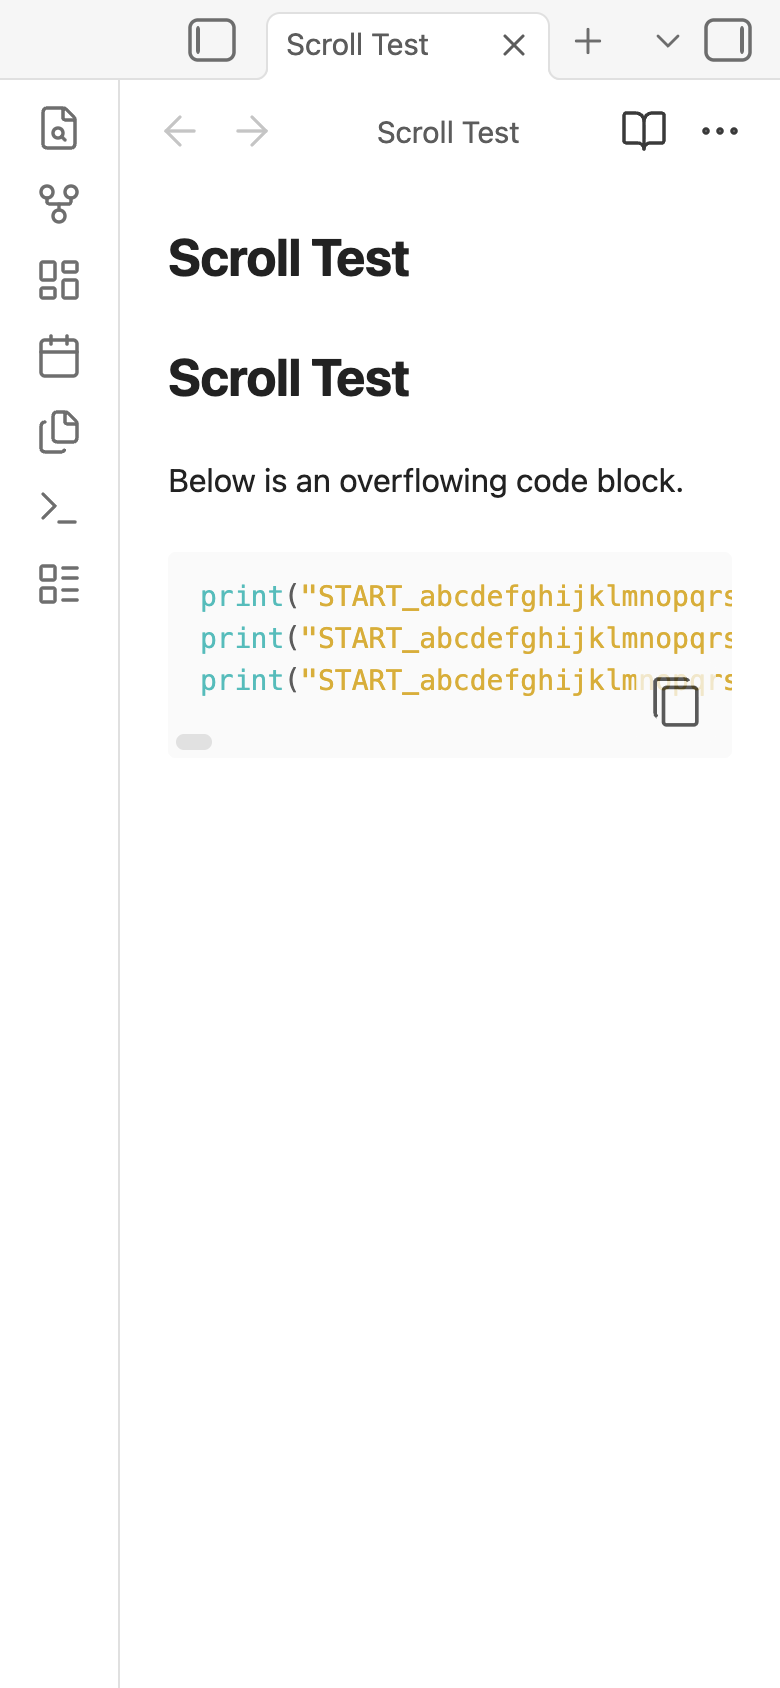
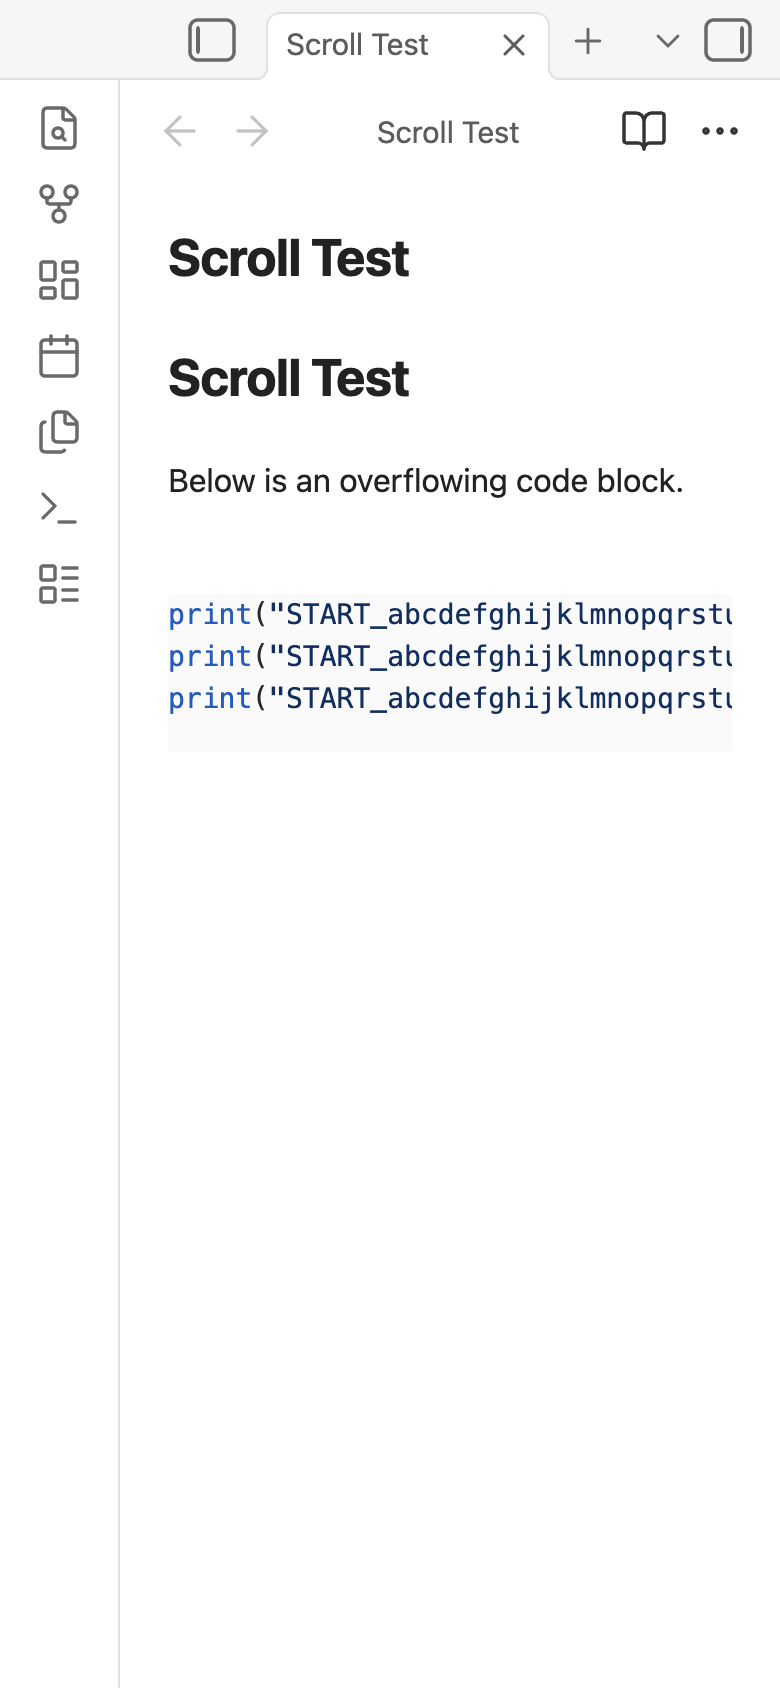
Fix mobile Monaco editing interactions

Changed region(s): [[0.2154, 0.3389, 0.9538, 0.4621]]

diff --git a/packages/obsidian/src/monaco/MonacoCodeBlockSurface.ts b/packages/obsidian/src/monaco/MonacoCodeBlockSurface.ts
@@ -31,17 +31,12 @@ export class MonacoCodeBlockSurface {
 	private resizeObserver: ResizeObserver | undefined;
 	private gestureRouter: MonacoGestureRouter | undefined;
 	private nativeMobileInteraction: NativeMobileInteraction | undefined;
-	private mobileModeObserver: MutationObserver | undefined;
-	private mobileModePollTimer: number | undefined;
 	private activationHandler: ((point: { clientX: number; clientY: number }) => void) | undefined;
 	private attachedParent: HTMLElement | undefined;
 	private hydrated = false;
 	private disposed = false;
 
 	constructor(plugin: ShikiPlugin, block: CodeBlockModel) {
-		this.mobileModeObserver = new MutationObserver(this.handleDocumentModeChange);
-		this.mobileModeObserver.observe(document.body, { attributes: true, attributeFilter: ['class'] });
-		window.addEventListener('resize', this.handleDocumentModeChange);
 		this.plugin = plugin;
 		this.block = block;
 		this.hostEl = document.createElement('div');
@@ -123,11 +118,6 @@ export class MonacoCodeBlockSurface {
 		this.modeController.setMode('editable');
 		this.editor?.updateOptions({ readOnly: false, domReadOnly: false, contextmenu: true, renderLineHighlight: 'line' });
 		this.updateModeClass();
-		this.startMobileModePoll(true);
-		if (this.isDocumentMobileMode() && !cursorPoint) {
-			this.deactivateToReadonly();
-			return;
-		}
 		if (cursorPoint) {
 			await this.waitForEditorFrame();
 			this.placeCursorFromPoint(cursorPoint.clientX, cursorPoint.clientY);
@@ -141,7 +131,6 @@ export class MonacoCodeBlockSurface {
 	}
 
 	deactivateToReadonly(): void {
-		this.stopMobileModePoll();
 		this.inputController.setSync(undefined);
 		this.modeController.setMode('readonly');
 		this.editor?.updateOptions({ readOnly: true, domReadOnly: true, contextmenu: false, renderLineHighlight: 'none' });
@@ -171,10 +160,6 @@ export class MonacoCodeBlockSurface {
 	}
 
 	dispose(): void {
-		this.mobileModeObserver?.disconnect();
-		this.mobileModeObserver = undefined;
-		window.removeEventListener('resize', this.handleDocumentModeChange);
-		this.stopMobileModePoll();
 		this.disposed = true;
 		this.resizeObserver?.disconnect();
 		this.resizeObserver = undefined;
@@ -232,53 +217,8 @@ export class MonacoCodeBlockSurface {
 		this.layout();
 	}
 
-	private startMobileModePoll(enabled: boolean): void {
-		this.stopMobileModePoll();
-		if (!enabled) {
-			return;
-		}
-		this.mobileModePollTimer = window.setInterval(() => {
-			if (this.disposed || !this.modeController.isEditable()) {
-				this.stopMobileModePoll();
-				return;
-			}
-			if (this.isDocumentMobileMode()) {
-				this.deactivateToReadonly();
-			}
-		}, 100);
-	}
-
-	private stopMobileModePoll(): void {
-		if (this.mobileModePollTimer === undefined) {
-			return;
-		}
-		window.clearInterval(this.mobileModePollTimer);
-		this.mobileModePollTimer = undefined;
-	}
-
-	private readonly handleDocumentModeChange = (): void => {
-		if (!this.isDocumentMobileMode()) {
-			return;
-		}
-		this.deactivateToReadonly();
-	};
-
-	private isDocumentMobileMode(): boolean {
-		return (
-			document.body.classList.contains('emulate-mobile') ||
-			document.body.classList.contains('is-mobile') ||
-			document.body.classList.contains('is-phone') ||
-			document.body.classList.contains('is-tablet')
-		);
-	}
-
 	private placeCursorFromPoint(clientX: number, clientY: number): void {
 		this.selectionController.placeCursor(clientX, clientY, true);
-		const approximate = this.approximatePositionFromPoint(clientX, clientY);
-		if (approximate) {
-			this.editor?.setPosition(approximate);
-			this.editor?.focus();
-		}
 	}
 
 	private approximatePositionFromPoint(clientX: number, clientY: number): { lineNumber: number; column: number } | undefined {

diff --git a/packages/obsidian/src/monaco/MonacoGestureRouter.ts b/packages/obsidian/src/monaco/MonacoGestureRouter.ts
@@ -37,7 +37,7 @@ export class MonacoGestureRouter {
 	private nativeInteraction: NativeMobileInteraction | undefined;
 	private onActivate: ((point: { clientX: number; clientY: number }) => void) | undefined;
 	private mouseDown: { clientX: number; clientY: number; button: number } | null = null;
-	private touchState: { startX: number; startY: number; scrollLeft: number; axis: GestureAxis; handle: boolean } | null = null;
+	private touchState: { startX: number; startY: number; scrollLeft: number; axis: GestureAxis; longPressed: boolean; handle: boolean } | null = null;
 	private lastTouchTime = 0;
 	private longPressTimer: ReturnType<typeof setTimeout> | null = null;
 
@@ -116,6 +116,7 @@ export class MonacoGestureRouter {
 			startX: touch.clientX,
 			startY: touch.clientY,
 			scrollLeft: this.editor.getScrollLeft(),
+			longPressed: false,
 			axis: handle ? 'handle' : 'pending',
 			handle,
 		};
@@ -126,6 +127,9 @@ export class MonacoGestureRouter {
 		}
 		this.clearLongPressTimer();
 		this.longPressTimer = setTimeout(() => {
+			if (this.touchState) {
+				this.touchState.longPressed = true;
+			}
 			this.selectionController.selectWordAt(touch.clientX, touch.clientY);
 		}, 450);
 	};
@@ -167,6 +171,14 @@ export class MonacoGestureRouter {
 		this.touchState = null;
 		this.selectionController.endHandleDrag();
 		this.clearLongPressTimer();
+
+		if (state?.longPressed) {
+			event.preventDefault();
+			event.stopPropagation();
+			this.touchState = null;
+			this.lastTouchTime = Date.now();
+			return;
+		}
 		if (!touch || state?.axis !== 'pending') return;
 		const nativePosition = this.editor.getTargetAtClientPoint?.(touch.clientX, touch.clientY)?.position ?? null;
 		if (nativePosition && this.nativeInteraction) {

diff --git a/packages/obsidian/src/monaco/MonacoSelectionController.ts b/packages/obsidian/src/monaco/MonacoSelectionController.ts
@@ -110,7 +110,7 @@ export class MonacoSelectionController {
 		if (!editor) return null;
 		const fallbackPosition = this.positionFromClientPoint(clientX, clientY);
 		const hitPosition = editor.getTargetAtClientPoint?.(clientX, clientY)?.position ?? null;
-		const position = fallbackPosition ?? hitPosition;
+		const position = hitPosition ?? fallbackPosition;
 		if (!position) return null;
 		editor.setPosition(position);
 		if (focus) {